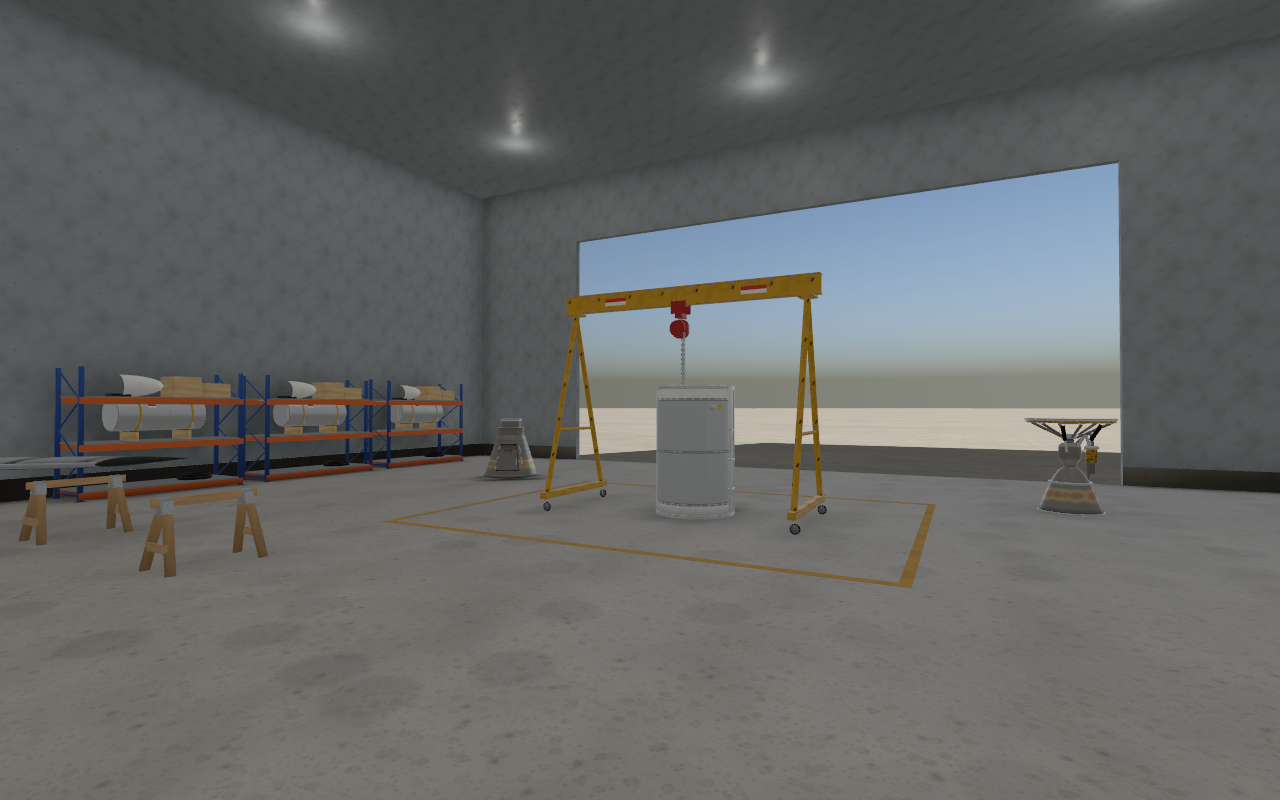
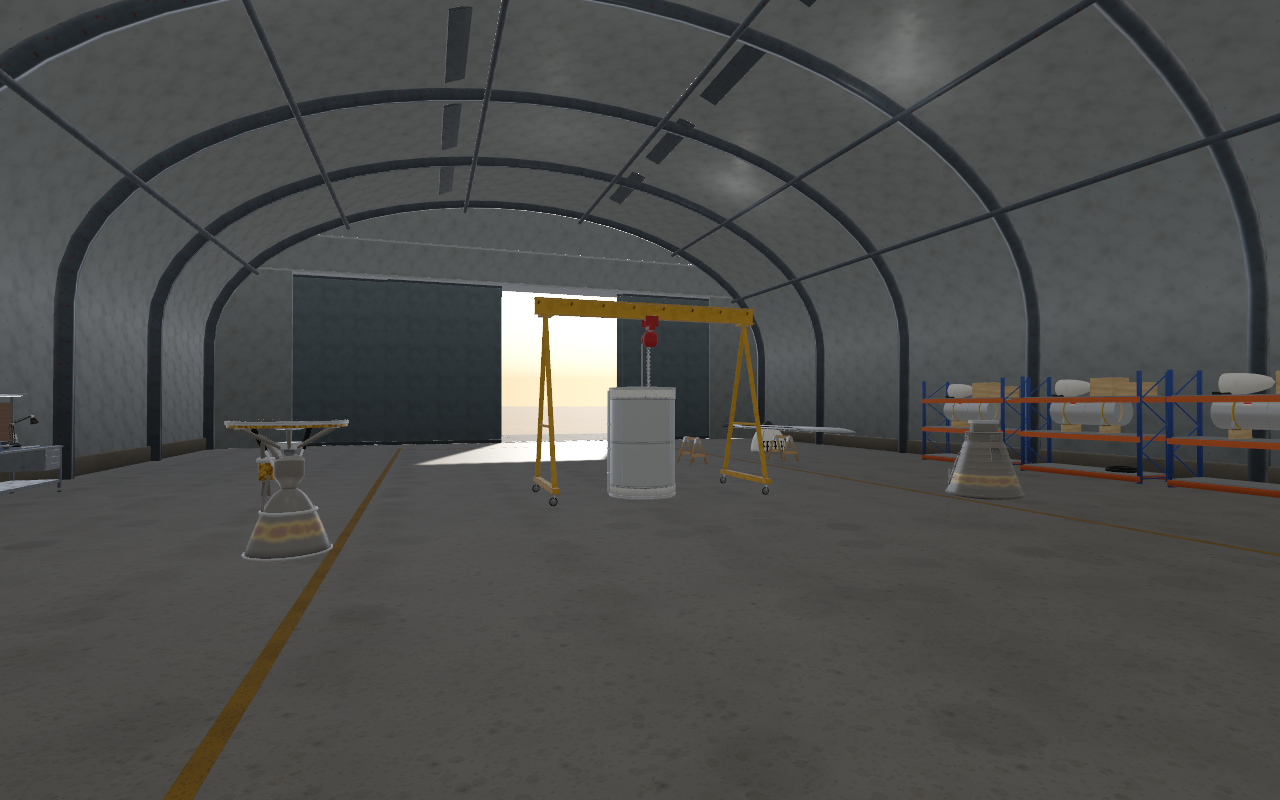
aerospace-hangar: use the hangar structure as the shell

diff --git a/Sources/RealLibrary/Scenes/AerospaceHangar.swift b/Sources/RealLibrary/Scenes/AerospaceHangar.swift
@@ -3,7 +3,7 @@ import Foundation
 import RealityKit
 import RealKit
 
-/// Hangar bay, 22 x 18 m and 9 m high, with a 14 m door open to the north. A gantry crane stands over a
+/// Inside the arched `hangar` structure (24 x 30 m), sliding doors open to the south. A gantry crane stands over a
 /// fuel tank in the middle bay, a crew capsule and a liquid engine wait on the floor, a wing section rests
 /// on sawhorses, part racks line the west wall and the avionics workbench, anglepoise lamp and tool chest
 /// the east wall. Oil drums, a cable spool and a barrel sit in the corners.
@@ -13,81 +13,64 @@ public struct AerospaceHangar: RealSceneBuilder {
     public static let tags = ["aerospace", "interior", "industrial"]
     public static let author = "hunter"
 
-    public var size = V3(22, 9, 18)
-    public var doorWidth: Float = 14
-    public var doorHeight: Float = 7
+    /// The hangar shell; its floor top sits at `floorY`, doors on +Z.
+    public var hangar = Hangar()
+    public var floorY: Float = 0.15
     public init() {}
-
-    public func room() -> Room {
-        var r = Room(size: size)
-        r.floor = "concrete.shop"
-        r.wall = "metal.roofing:9EA4A6"
-        r.skirting = "concrete.rough:8C877E"
-        r.skirtingHeight = 0.4
-        r.ceiling = .none
-        r.cell = 0.5
-        r.openings.append(.init(.north, offset: 0, width: doorWidth, sill: 0, head: doorHeight))
-        return r
-    }
 
     static let light = InteriorLight().with {
         $0.ceiling = SIMD3(0.5, 0.5, 0.5); $0.walls = SIMD3(0.5, 0.51, 0.5); $0.floor = SIMD3(0.36, 0.35, 0.33)
         $0.fixtures = SIMD3(5.0, 5.0, 4.8); $0.fixturePitch = 0.3; $0.fixtureSize = SIMD2(0.06, 0.3)
-        $0.windowAzimuth = 0; $0.windowWidth = 70; $0.windowElevation = 0...25; $0.exposure = -0.3
+        $0.windowAzimuth = 180; $0.windowWidth = 70; $0.windowElevation = 0...25; $0.exposure = -0.3
     }
 
     public func build(seed: UInt64) -> RealScene {
         var scene = RealScene(name: Self.id)
         var rng = SeededRNG(seed: seed &+ 11)
-        let room = room()
-        let hx = size.x / 2, hz = size.z / 2, T = room.wallThickness
-        scene.add(room.shell(), bake: true)
-        scene.add(room.with { $0.ceiling = .flat; $0.wall = "metal.roofing:8E9496" }.ceilingModel())
+        let hx = hangar.width / 2 - 0.3, hz = hangar.depth / 2
+        let fy = floorY
+        func at(_ x: Float, _ z: Float, y: Float = 0, yaw: Float = 0) -> Xform { place(x, z, y: fy + y, yaw: yaw) }
+        scene.add(hangar, at: .identity, seed: seed)
 
         // Middle bay: gantry crane over an upright fuel tank, yellow bay box on the floor.
-        scene.add(GantryCrane(), at: place(0, -1.5), seed: seed &+ 1, state: "centered")
-        scene.add(FuelTankM(), at: place(0.2, -1.6, yaw: 20), seed: seed &+ 2)
-        for (x, z, w, d) in [(Float(0), Float(-4.2), Float(7), Float(0.12)), (0, 1.2, 7, 0.12), (-3.5, -1.5, 0.12, 5.5), (3.5, -1.5, 0.12, 5.5)] {
-            scene.add(Model(name: "bay-line", surfaces: [Prim.roundedBox(V3(w, 0.004, d), radius: 0.001, bevelSegments: 1, material: "paint.lane-yellow")]),
-                      at: Xform(translation: V3(x, 0.002, z)))
-        }
-
+        scene.add(GantryCrane(), at: at(0, -1.5), seed: seed &+ 1, state: "centered")
+        scene.add(FuelTankM(), at: at(0.2, -1.6, yaw: 20), seed: seed &+ 2)
         // Floor work: capsule, engine, wing on sawhorses.
-        scene.add(CommandPod(), at: place(-5.5, -4, yaw: 30), seed: seed &+ 3)
-        scene.add(EngineLiquidSmall(), at: place(5.5, -4.5, yaw: -20), seed: seed &+ 4)
-        for x in [Float(-6.2), -3.2] { scene.add(Sawhorse(), at: place(x, 3.8, yaw: 90), seed: seed &+ UInt64(5 + Int(-x))) }
-        scene.add(WingSection(), at: place(-6.4, 3.8, y: 0.78, yaw: 0), seed: seed &+ 7)
-        scene.add(NoseCone(), at: place(-7.5, 6.8, yaw: rng.float(0...360)), seed: seed &+ 8)
+        scene.add(CommandPod(), at: at(-5.5, -4, yaw: 30), seed: seed &+ 3)
+        scene.add(EngineLiquidSmall(), at: at(5.5, -4.5, yaw: -20), seed: seed &+ 4)
+        for x in [Float(-6.2), -3.2] { scene.add(Sawhorse(), at: at(x, 3.8, yaw: 90), seed: seed &+ UInt64(5 + Int(-x))) }
+        scene.add(WingSection(), at: at(-6.4, 3.8, y: 0.78, yaw: 0), seed: seed &+ 7)
+        scene.add(NoseCone(), at: at(-7.5, 6.8, yaw: rng.float(0...360)), seed: seed &+ 8)
 
         // West wall: part racks facing the bay.
         for (i, z) in [Float(-5.5), -2.2, 1.1].enumerated() {
-            scene.add(PartRack(), at: place(-hx + T / 2 + 0.6, z, yaw: 90), seed: seed &+ UInt64(10 + i))
+            scene.add(PartRack(), at: at(-hx + 0.9, z, yaw: 90), seed: seed &+ UInt64(10 + i))
         }
         // East wall: avionics bench with a lamp, tool chest beside it.
-        let bx = hx - T / 2 - 0.5
-        scene.add(AerospaceWorkbench(), at: place(bx, 1.5, yaw: -90), seed: seed &+ 20)
-        scene.add(AnglepoiseLamp(), at: place(bx + 0.1, 2.2, y: 0.9, yaw: -120), seed: seed &+ 21)
-        scene.add(ToolChest(), at: place(bx + 0.05, -1.4, yaw: -90), seed: seed &+ 22)
+        let bx = hx - 0.6
+        scene.add(AerospaceWorkbench(), at: at(bx, 1.5, yaw: -90), seed: seed &+ 20)
+        scene.add(AnglepoiseLamp(), at: at(bx + 0.1, 2.2, y: 0.9, yaw: -120), seed: seed &+ 21)
+        scene.add(ToolChest(), at: at(bx + 0.05, -1.4, yaw: -90), seed: seed &+ 22)
 
         // Corners: oil drums, cable spool, barrel.
         for k in 0..<3 {
-            scene.add(OilDrum(), at: place(hx - 1.4 - Float(k % 2) * 0.66, hz - 1.2 - Float(k / 2) * 0.66, yaw: rng.float(0...360)), seed: seed &+ UInt64(30 + k))
+            scene.add(OilDrum(), at: at(hx - 1.4 - Float(k % 2) * 0.66, -hz + 1.6 + Float(k / 2) * 0.66, yaw: rng.float(0...360)), seed: seed &+ UInt64(30 + k))
         }
-        scene.add(CableSpool(), at: place(hx - 3.6, hz - 1.4, yaw: 80), seed: seed &+ 34)
-        scene.add(Barrel(), at: place(-hx + 1.2, hz - 1.2), seed: seed &+ 35)
+        scene.add(CableSpool(), at: at(hx - 3.6, -hz + 1.8, yaw: 80), seed: seed &+ 34)
+        scene.add(Barrel(), at: at(-hx + 1.4, -hz + 1.6), seed: seed &+ 35)
 
         // High-bay lights in a 3 x 3 grid under the roof.
         for i in 0..<3 { for j in 0..<3 {
-            scene.lights.append(RigLight(name: "high-bay-\(i)-\(j)", position: V3(-7 + Float(i) * 7, size.y - 0.6, -6 + Float(j) * 6),
+            scene.lights.append(RigLight(name: "high-bay-\(i)-\(j)", position: V3(-6 + Float(i) * 6, 8.6, -9 + Float(j) * 8),
                                          color: V3(1, 0.97, 0.92), intensity: 14_000, attenuationRadius: 16))
         }}
 
-        scene.farGround = "concrete.rough"
+        scene.farGround = "ground.sand:B79E78"
         scene.lighting = .init(sky: SunSky(elevation: 30, azimuth: 200, turbidity: 3), interior: Self.light, fog: 0)
         scene.bake = .interior
         scene.batchStatics = true
         scene.batchCell = 6
-        scene.camera = .init(eye: V3(4, 1.68, 7.5), target: V3(-1, 1.8, -2), fov: 66)
+        scene.camera = .init(eye: V3(4, fy + 1.68, -12.5), target: V3(-1, fy + 1.8, 2), fov: 66)
         return scene
     }
 }
